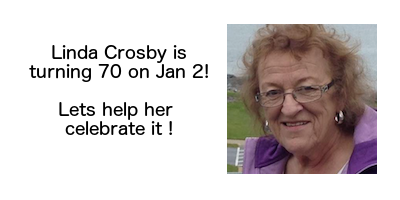
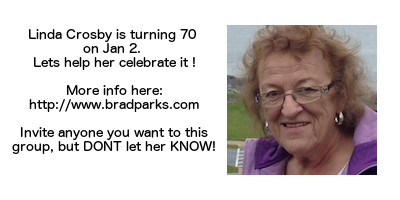
updated site

diff --git a/index.html b/index.html
@@ -35,10 +35,10 @@
 <h2 id="moms-turning-70-this-january-2">Mom's turning 70 this January 2!</h2>
 <p>As you all know, mom is one of the most humble people you'll ever meet. We wanted to throw her a party for her 70th birthday, but of course she doesn't want a party!</p>
 <p>But we want to show her just how special she is, and how much she means to those around her.</p>
-<p><strong><em>To do this, we'd like to help her celebrate by getting 70 people to each write her a special note for her birthday!</em></strong></p>
-<p>We’re going to take all these cards, put them together in a hand crafted recipe box, wrap them with a beautiful bow and card, and give them to her on her birthday!</p>
+<p><strong><em>To do this, we'd like to help her celebrate by getting at least 70 people to write her a special card/note/letter for her birthday!</em></strong></p>
+<p>We’re going to take all these cards, put them together in a hand crafted box, wrap them with a beautiful bow, and give them to her on her birthday!</p>
 <h3 id="now-of-course-we-want-to-keep-this-a-secret---so-dont-tell-her--">Now of course we want to keep this a secret - so DON'T tell her ;-)</h3>
-<h3 id="who-should-write-the-notes-anyone">Who should write the notes? Anyone!</h3>
+<h3 id="who-should-write-the-cards-anyone">Who should write the cards? Anyone!</h3>
 <ul>
 <li>Anyone that has either meant something to her, or she's meant something to them.</li>
 <li>A kid she taught in school.</li>
@@ -57,10 +57,11 @@
 </ul>
 <h3 id="so-how-does-this-work">So how does this work?</h3>
 <ul>
-<li>Use a recipe card, picture or index card that is <strong><em>no bigger than 4x6 inches in size</em></strong>. This is important to make sure they all fit in the recipe box.</li>
-<li>Use more than one card if you want... Think it'd take 10 to tell your story? Then use 10.  If we need to get a bigger box, we'll get a bigger box!</li>
+<li>Write a </li>
+<li>Write her a letter or card, or give us a picture you think she'd like to see. Any size at all, but preferably under a standard envelope size.</li>
+<li>Seal the letter if you like - we're not going to read them unless you want us to. We just want it to be a beautiful surprise for her birthday.</li>
 <li>
-<p>Tell others about it and get them to write her a note too ;-) Just send them to this page (<a href="http://www.bradparks.com">http://www.bradparks.com</a>), or get them to join the following private Facebook group, so we can talk about it some more:</p>
+<p>Tell others about it and get them to write her a card too ;-) Just send them to this page (<a href="http://www.bradparks.com">http://www.bradparks.com</a>), or get them to join the following private Facebook group, so we can talk about it some more:</p>
 <p><a href="https://www.facebook.com/groups/843835985729441/">https://www.facebook.com/groups/843835985729441/</a></p>
 </li>
 <li>
@@ -73,16 +74,16 @@
   506-454-2976
   </pre>
 </li>
-<li>It's ok if you can't find a recipe card... Just send us the note you'd like included in the recipe box and we'll print it out nicely and include it as well.</li>
 </ul>
 <h3 id="too-busy-or-not-enough-time-to-mail-it-just-send-us-an-email-instead">Too busy or not enough time to mail it? Just send us an email instead</h3>
 <ul>
 <li>You can just send us your note by <a href="http://goo.gl/forms/xPw5S11eHP">filling in the form here</a></li>
 <li>or you can just go to our <a href="https://www.facebook.com/groups/843835985729441/">PRIVATE Facebook group</a> and add it there as well.</li>
 <li>or you can send an email to bradparks AT gmail.com or <a href="https://www.facebook.com/mrbradparks">private message Brad on facebook as well</a>!</li>
+<li>We'll print it out nicely and include it as well.</li>
 </ul>
 <p>Thanks!</p>
-<p>Tony, Brad, Brock, April and Katie</p>
+<p>Brad, Brock, Tony, April and Katie</p>
                 </section>
 
             </div>

diff --git a/source/index.md b/source/index.md
@@ -7,13 +7,13 @@ As you all know, mom is one of the most humble people you'll ever meet. We wante
 
 But we want to show her just how special she is, and how much she means to those around her.
 
-***To do this, we'd like to help her celebrate by getting 70 people to each write her a special note for her birthday!***
+***To do this, we'd like to help her celebrate by getting at least 70 people to write her a special card/note/letter for her birthday!***
 
-We’re going to take all these cards, put them together in a hand crafted recipe box, wrap them with a beautiful bow and card, and give them to her on her birthday!
+We’re going to take all these cards, put them together in a hand crafted box, wrap them with a beautiful bow, and give them to her on her birthday!
 
 ### Now of course we want to keep this a secret - so DON'T tell her ;-)
 
-### Who should write the notes? Anyone! 
+### Who should write the cards? Anyone! 
 - Anyone that has either meant something to her, or she's meant something to them.
 - A kid she taught in school.
 - A friend she knew in high school, a childhood friend - Anyone! 
@@ -32,9 +32,10 @@ If you think someone should know about this, let them know by sending them to th
 
 ### So how does this work?
 
-- Use a recipe card, picture or index card that is ***no bigger than 4x6 inches in size***. This is important to make sure they all fit in the recipe box.
-- Use more than one card if you want... Think it'd take 10 to tell your story? Then use 10.  If we need to get a bigger box, we'll get a bigger box!
-- Tell others about it and get them to write her a note too ;-) Just send them to this page (http://www.bradparks.com), or get them to join the following private Facebook group, so we can talk about it some more:
+- Write a 
+- Write her a letter or card, or give us a picture you think she'd like to see. Any size at all, but preferably under a standard envelope size.
+- Seal the letter if you like - we're not going to read them unless you want us to. We just want it to be a beautiful surprise for her birthday.
+- Tell others about it and get them to write her a card too ;-) Just send them to this page (http://www.bradparks.com), or get them to join the following private Facebook group, so we can talk about it some more:
 
     https://www.facebook.com/groups/843835985729441/
 
@@ -47,15 +48,13 @@ If you think someone should know about this, let them know by sending them to th
       E3B 3R8
       506-454-2976
       </pre>
-- It's ok if you can't find a recipe card... Just send us the note you'd like included in the recipe box and we'll print it out nicely and include it as well.
 
 ### Too busy or not enough time to mail it? Just send us an email instead
 - You can just send us your note by [filling in the form here](http://goo.gl/forms/xPw5S11eHP)
 - or you can just go to our [PRIVATE Facebook group](https://www.facebook.com/groups/843835985729441/) and add it there as well.
 - or you can send an email to bradparks AT gmail.com or [private message Brad on facebook as well](https://www.facebook.com/mrbradparks)!
+- We'll print it out nicely and include it as well.
 
 Thanks!
 
-Tony, Brad, Brock, April and Katie
-
-
+Brad, Brock, Tony, April and Katie
